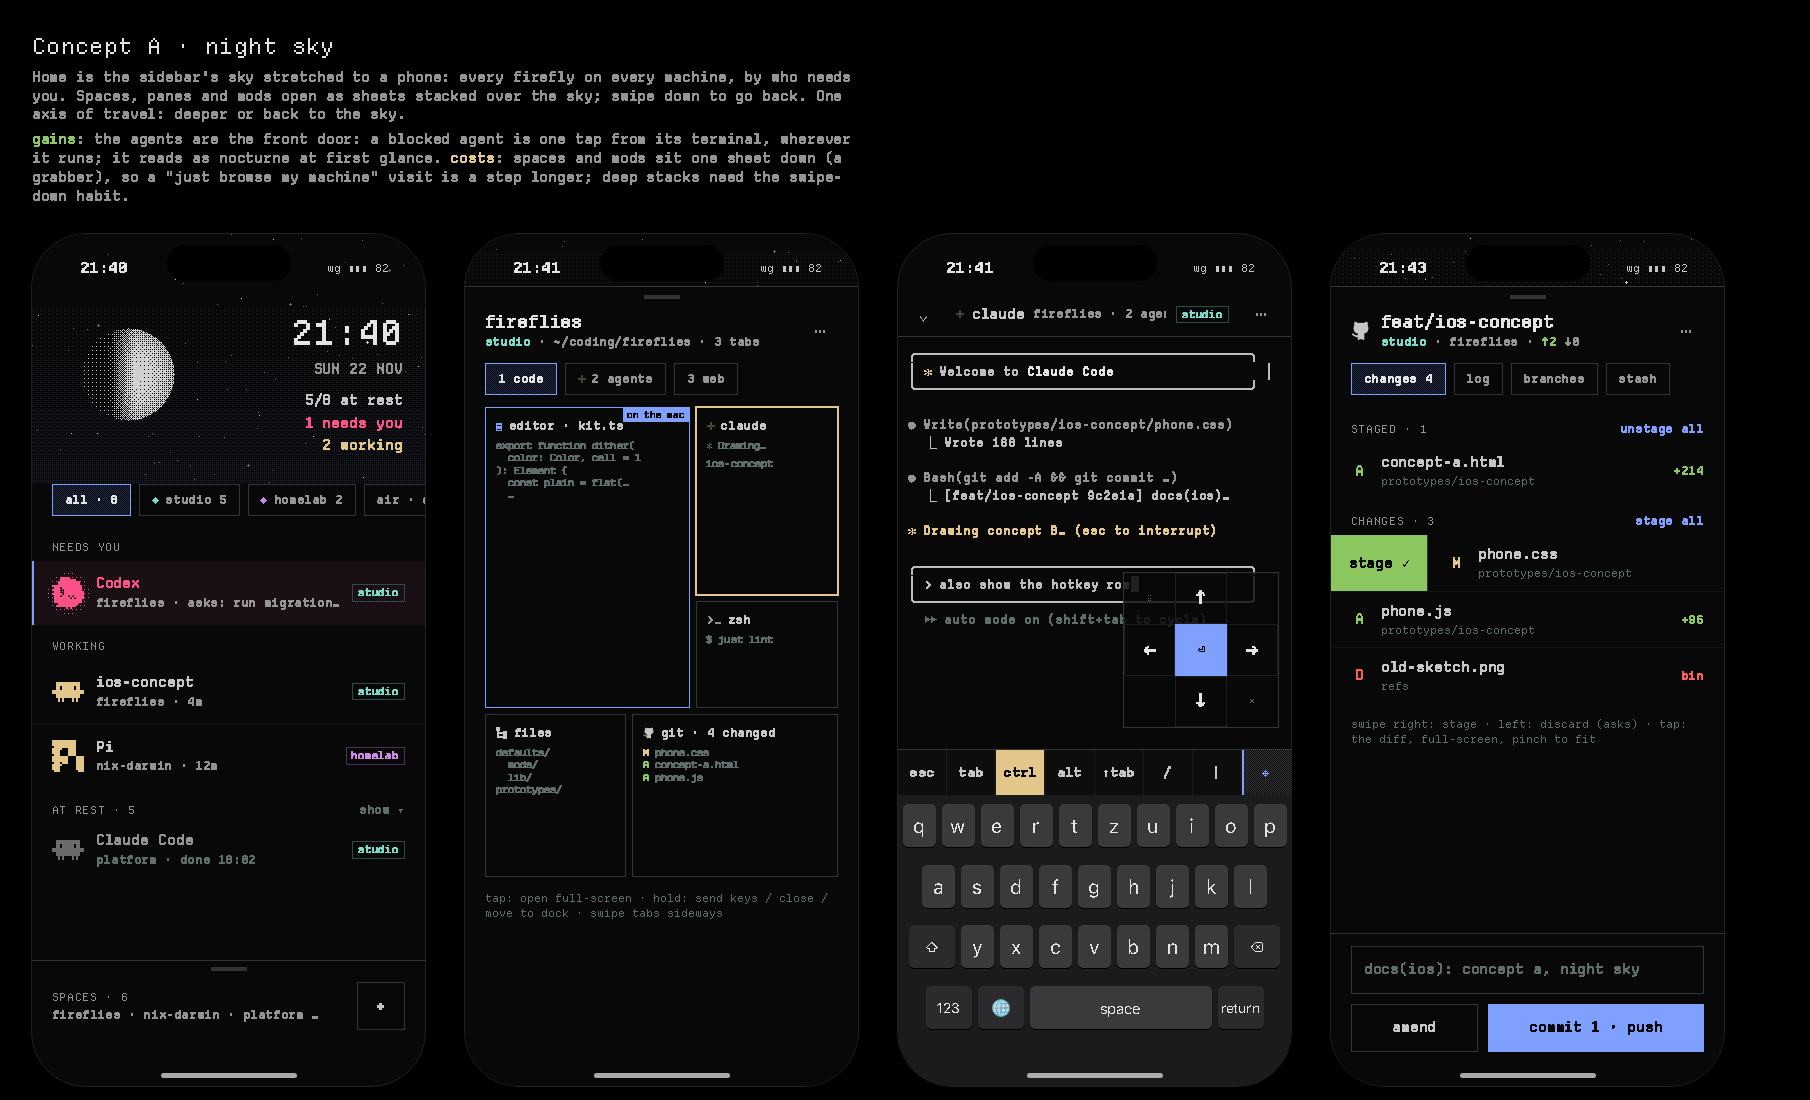
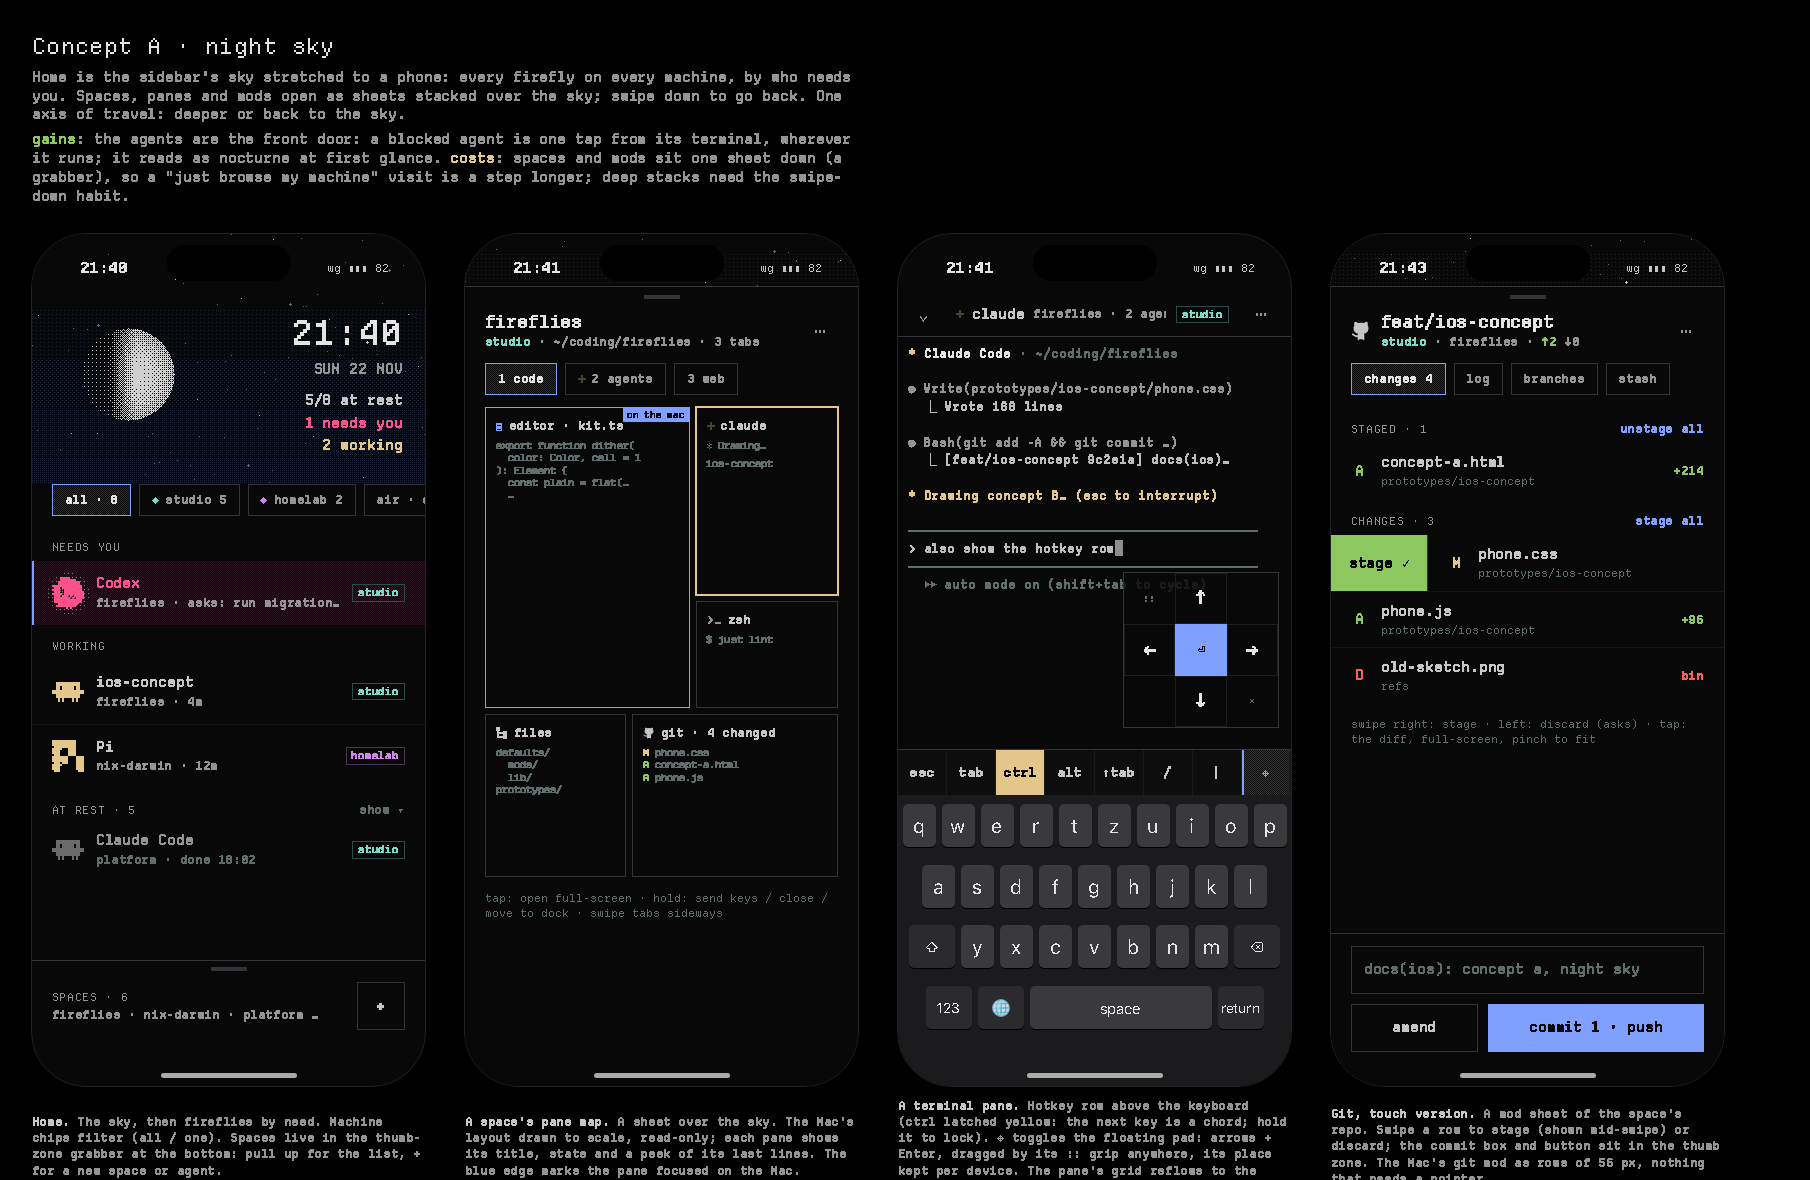
docs(ios): concept b, machine map with a bottom dock, and both concepts' shots

diff --git a/prototypes/ios-concept/concept-b.html b/prototypes/ios-concept/concept-b.html
@@ -1,0 +1,252 @@
+<!doctype html>
+<html lang="en">
+<head>
+<meta charset="utf-8">
+<meta name="viewport" content="width=device-width, initial-scale=1">
+<title>Fireflies iOS: concept B, machine map and dock</title>
+<link rel="stylesheet" href="phone.css">
+<style>
+  .band { position: relative; height: 112px; flex: none; }
+  .band canvas { position: absolute; inset: 0; width: 100%; height: 100%; }
+  .band .t { position: absolute; left: 20px; bottom: 12px; right: 20px; display: flex; justify-content: space-between; align-items: end; }
+  .dock { flex: none; height: 84px; border-top: 1px solid var(--edge); display: grid; grid-template-columns: repeat(5, 1fr); padding-bottom: 26px; background: var(--bg); }
+  .dock span { display: grid; justify-items: center; align-content: center; gap: 4px; font-size: 10px; color: var(--dim); position: relative; }
+  .dock span .art { width: 20px; height: 20px; }
+  .dock span.on { color: var(--bright); }
+  .dock span.on::before { content: ""; position: absolute; top: -1px; left: 22%; right: 22%; height: 2px; background: var(--accent); }
+  .dock .badge { position: absolute; top: 6px; left: 54%; background: var(--blocked); color: var(--bg); font-size: 9px; padding: 0 4px; }
+  .mach { margin: 0 16px 14px; border: 1px solid var(--edge); }
+  .mach .mh { display: flex; align-items: center; gap: 10px; padding: 12px 14px; }
+  .mach .mh .grow { flex: 1; display: grid; gap: 2px; }
+  .mach .sp { display: flex; align-items: center; gap: 10px; min-height: 48px; padding: 0 14px; border-top: 1px solid #161616; }
+  .mach .sp .grow { flex: 1; }
+  .mini { display: grid; gap: 1px; width: 34px; height: 22px; flex: none; }
+  .mini i { background: var(--edge); }
+  .mini i.w { background: var(--working); }
+  .mini i.b { background: var(--blocked); }
+  .mach.off { opacity: 0.55; }
+  .crumb { flex: none; padding: 6px 20px 10px; display: grid; gap: 4px; }
+  .tabs { display: flex; gap: 8px; padding: 0 20px 12px; flex: none; }
+  .map { position: relative; margin: 0 16px; flex: 1; margin-bottom: 12px; }
+  .pn { position: absolute; border: 1px solid var(--edge); padding: 10px; display: flex; flex-direction: column; gap: 6px; overflow: hidden; }
+  .pn .ttl { display: flex; align-items: center; gap: 6px; font-size: 12px; white-space: nowrap; }
+  .pn .peek { font-size: 9.5px; line-height: 1.3; color: var(--dim); white-space: pre; }
+  .pn.mac { border-color: var(--accent); }
+  .pn.press { outline: 2px solid var(--working); outline-offset: -1px; }
+  .termbar { flex: none; height: 44px; display: flex; align-items: center; gap: 8px; padding: 0 8px 0 4px; border-bottom: 1px solid var(--edge); }
+  .termbar .grow { flex: 1; min-width: 0; display: flex; align-items: center; gap: 8px; white-space: nowrap; overflow: hidden; }
+  .x { width: 44px; height: 44px; display: flex; align-items: center; justify-content: center; color: var(--muted); font-size: 16px; }
+  .dots { display: flex; gap: 6px; justify-content: center; padding: 6px 0; flex: none; }
+  .dots i { width: 6px; height: 6px; background: var(--edge); }
+  .dots i.on { background: var(--accent); }
+  .modrail { display: flex; gap: 8px; padding: 0 16px 12px; flex: none; overflow: hidden; }
+  .modrail .chip { height: 40px; }
+  .group { padding: 12px 20px 6px; display: flex; justify-content: space-between; align-items: baseline; }
+  .st { width: 18px; text-align: center; flex: none; }
+  .commit { flex: none; border-top: 1px solid var(--edge); padding: 10px 16px; display: flex; gap: 10px; }
+  .field { flex: 1; min-height: 48px; border: 1px solid var(--edge); padding: 13px 12px; color: var(--dim); white-space: nowrap; overflow: hidden; }
+</style>
+</head>
+<body>
+<header class="page-head">
+  <h1>Concept B · machine map and dock</h1>
+  <p>Home is the machines, each with its spaces drawn as tiny layouts. A five-place dock at the bottom (machines, fireflies, alerts, mods, hosts) is always there except inside a terminal. Travel is machine › space › pane, like a file browser; the dock jumps between kinds of thing.</p>
+  <p><span class="gain">gains</span>: the phone mirrors how the Mac is arranged, so finding "the db pane in platform on homelab" is direct; mods are first-class places, not sheets; easy to learn (a tab bar is what iOS hands expect). <span class="cost">costs</span>: agents needing you sit behind a dock tab and a badge rather than on the first screen; less of the sky, so it reads more like a tool than like nocturne; the dock takes 84 px from every screen.</p>
+</header>
+
+<div class="row">
+
+<!-- 1. home -->
+<figure class="shot">
+<div class="phone">
+  <div class="status"><span>21:40</span><i class="island"></i><span class="sig">local ▮▮▮ 82</span></div>
+  <div class="screen">
+    <div class="band">
+      <canvas class="px sky" data-hills="18" data-from="0.1" data-depth="0.3" data-seed="9"></canvas>
+      <div class="t"><span class="h">Machines</span><span class="sm"><span class="t-block">1 needs you</span> · <span class="t-work">2 working</span></span></div>
+    </div>
+    <div class="scroll" style="padding-top:12px">
+      <div class="mach">
+        <div class="mh">
+          <i class="art pip working" data-art="pip"></i>
+          <div class="grow"><span class="t-bright">studio</span><span class="xs t-muted">local · studio.local · 4 spaces</span></div>
+          <span class="tag m-studio">home wi-fi</span>
+        </div>
+        <div class="sp lit" style="--c:#161a26"><span class="mini" style="grid-template:1fr 1fr / 3fr 2fr"><i style="grid-row:span 2"></i><i class="w"></i><i class="b"></i></span><div class="grow">fireflies</div><i class="art pip blocked" data-art="pip"></i><span class="sm t-muted">6</span></div>
+        <div class="sp"><span class="mini" style="grid-template:1fr / 1fr 1fr"><i></i><i class="w"></i></span><div class="grow">platform</div><span class="sm t-muted">2</span></div>
+        <div class="sp"><span class="mini" style="grid-template:1fr / 1fr"><i></i></span><div class="grow t-muted">scratch</div><span class="sm t-dim">1</span></div>
+      </div>
+      <div class="mach">
+        <div class="mh">
+          <i class="art pip working" data-art="pip"></i>
+          <div class="grow"><span class="t-bright">homelab</span><span class="xs t-muted">vpn · 10.8.0.2 · 2 spaces · k8s</span></div>
+          <span class="tag m-lab">wireguard</span>
+        </div>
+        <div class="sp"><span class="mini" style="grid-template:1fr 1fr / 1fr 1fr"><i class="w"></i><i></i><i></i><i></i></span><div class="grow">nix-darwin</div><span class="sm t-muted">4</span></div>
+      </div>
+      <div class="mach off">
+        <div class="mh">
+          <i class="art pip-hollow" style="width:8px;height:8px;color:var(--dim)" data-art="pip-hollow"></i>
+          <div class="grow"><span>air</span><span class="xs t-dim">asleep · seen 14:02 · wake on lan</span></div>
+        </div>
+      </div>
+    </div>
+    <div class="dock">
+      <span class="on"><i class="art" data-art="tree"></i>machines</span>
+      <span><i class="art" data-art="logo-agent"></i>fireflies</span>
+      <span><i class="art" data-art="bell"></i>alerts<b class="badge">1</b></span>
+      <span><i class="art" data-art="database"></i>mods</span>
+      <span><i class="art" data-art="shield"></i>hosts</span>
+    </div>
+  </div>
+  <i class="home-ind"></i>
+</div>
+<figcaption><b>Home.</b> Machines as panels with their spaces; each space's mini-layout lights the pane that works (yellow) or needs you (pink). The tag says which road the phone takes: home Wi-Fi or WireGuard. An asleep machine offers wake on LAN.</figcaption>
+</figure>
+
+<!-- 2. space map -->
+<figure class="shot">
+<div class="phone">
+  <div class="status"><span>21:41</span><i class="island"></i><span class="sig">local ▮▮▮ 82</span></div>
+  <div class="screen">
+    <div class="safe-top"></div>
+    <div class="crumb">
+      <span class="sm t-muted">‹ <span class="t-cyan">studio</span> / spaces</span>
+      <span class="h">fireflies</span>
+    </div>
+    <div class="tabs">
+      <span class="chip on">1 code</span>
+      <span class="chip"><i class="art pip blocked" data-art="pip"></i>2 agents</span>
+      <span class="chip">3 web</span>
+      <span class="chip t-dim">+</span>
+    </div>
+    <div class="map">
+      <div class="pn mac" style="left:0;top:0;width:58%;height:60%">
+        <div class="ttl"><span class="t-acc">▤</span> editor · kit.ts</div>
+        <div class="peek">export function dither(
+  color: Color, cell = 1
+): Element {
+  …</div>
+      </div>
+      <div class="pn press" style="left:calc(58% + 6px);top:0;right:0;height:38%">
+        <div class="ttl"><i class="art pip working" data-art="pip"></i> claude</div>
+        <div class="peek t-work">* Drawing…</div>
+      </div>
+      <div class="pn" style="left:calc(58% + 6px);top:calc(38% + 6px);right:0;height:calc(22% - 6px)">
+        <div class="ttl"><span class="t-muted">&gt;_</span> zsh</div>
+      </div>
+      <div class="pn" style="left:0;top:calc(60% + 6px);width:40%;bottom:0">
+        <div class="ttl"><i class="art" style="width:12px;height:12px" data-art="tree"></i> files</div>
+        <div class="peek">defaults/
+prototypes/</div>
+      </div>
+      <div class="pn" style="left:calc(40% + 6px);top:calc(60% + 6px);right:0;bottom:0">
+        <div class="ttl"><i class="art" style="width:12px;height:12px" data-art="github"></i> git · 4</div>
+      </div>
+    </div>
+    <div class="dock">
+      <span class="on"><i class="art" data-art="tree"></i>machines</span>
+      <span><i class="art" data-art="logo-agent"></i>fireflies</span>
+      <span><i class="art" data-art="bell"></i>alerts<b class="badge">1</b></span>
+      <span><i class="art" data-art="database"></i>mods</span>
+      <span><i class="art" data-art="shield"></i>hosts</span>
+    </div>
+  </div>
+  <i class="home-ind"></i>
+</div>
+<figcaption><b>A space's pane map.</b> Pushed inside the machines tab (back with the edge swipe). Tabs are chips, the layout fills what the dock leaves; tap a pane to open it, hold for send keys / close / move.</figcaption>
+</figure>
+
+<!-- 3. terminal -->
+<figure class="shot">
+<div class="phone">
+  <div class="status"><span>21:41</span><i class="island"></i><span class="sig">local ▮▮▮ 82</span></div>
+  <div class="screen">
+    <div class="safe-top"></div>
+    <div class="termbar">
+      <span class="x">‹</span>
+      <div class="grow"><i class="art pip working" data-art="pip"></i><span>claude</span><span class="sm t-muted">fireflies › code</span></div>
+      <span class="x" style="font-size:12px">2/5</span>
+      <span class="x">⋯</span>
+    </div>
+    <div class="term" style="flex:1"><span class="t-work">*</span> <span class="t-bright">Claude Code</span> <span class="t-dim">· ~/coding/fireflies</span>
+
+<span class="t-muted">● Write(prototypes/ios-concept/phone.css)</span>
+  ⎿ Wrote 168 lines
+
+<span class="t-muted">● Bash(git add -A &amp;&amp; git commit …)</span>
+  ⎿ [feat/ios-concept bbce2cc] docs(ios)…
+
+<span class="t-work">* Drawing concept B… (esc to interrupt)</span>
+
+<span class="t-dim">────────────────────────────────────────────</span>
+&gt; also show the hotkey row<span class="cur"> </span>
+<span class="t-dim">────────────────────────────────────────────</span></div>
+    <div class="dots"><i></i><i class="on"></i><i></i><i></i><i></i></div>
+    <div class="pad" style="left:14px;bottom:360px">
+      <span class="grip">::</span><span class="arrow">↑</span><span class="grip"></span>
+      <span class="arrow">←</span><span class="enter">⏎</span><span class="arrow">→</span>
+      <span class="grip"></span><span class="arrow">↓</span><span class="grip">x</span>
+    </div>
+    <div class="keyrow">
+      <span class="k">esc</span><span class="k">tab</span><span class="k">ctrl</span><span class="k">alt</span><span class="k">^C</span><span class="k">^R</span><span class="k">|</span><span class="k lit">✥</span>
+    </div>
+    <div class="kbd">
+      <div class="r"><span>q</span><span>w</span><span>e</span><span>r</span><span>t</span><span>z</span><span>u</span><span>i</span><span>o</span><span>p</span></div>
+      <div class="r"><span>a</span><span>s</span><span>d</span><span>f</span><span>g</span><span>h</span><span>j</span><span>k</span><span>l</span></div>
+      <div class="r"><span class="w">⇧</span><span>y</span><span>x</span><span>c</span><span>v</span><span>b</span><span>n</span><span>m</span><span class="w">⌫</span></div>
+      <div class="r"><span class="w">123</span><span class="w">🌐</span><span class="sp">space</span><span class="w">return</span></div>
+    </div>
+  </div>
+  <i class="home-ind"></i>
+</div>
+<figcaption><b>A terminal pane.</b> The dock steps aside for the keyboard. Swipe sideways on the bar to the tab's next pane (dots: 2 of 5). The hotkey row carries chords as keys (^C, ^R: editable); ✥ shows the pad, here dragged to the left for a left thumb.</figcaption>
+</figure>
+
+<!-- 4. git -->
+<figure class="shot">
+<div class="phone">
+  <div class="status"><span>21:43</span><i class="island"></i><span class="sig">local ▮▮▮ 82</span></div>
+  <div class="screen">
+    <div class="safe-top"></div>
+    <div class="crumb"><span class="sm t-muted">mods</span><span class="h">git</span></div>
+    <div class="modrail">
+      <span class="chip on"><i class="art" style="width:14px;height:14px" data-art="github"></i>git</span>
+      <span class="chip">github</span><span class="chip">databases</span><span class="chip">k8s</span><span class="chip">files</span>
+    </div>
+    <div style="display:flex;gap:8px;padding:0 16px 8px;flex:none"><span class="chip"><span class="t-cyan">studio</span> › fireflies ▾</span><span class="chip">feat/ios-concept <span class="t-done">↑2</span></span></div>
+    <div class="scroll">
+      <div class="group"><span class="eyebrow">Staged · 1</span><span class="sm t-acc">unstage all</span></div>
+      <div class="list">
+        <div class="item"><span class="st t-done">A</span><div class="grow"><span>concept-a.html</span><span class="xs t-dim">prototypes/ios-concept</span></div><span class="sm t-done">+214</span></div>
+      </div>
+      <div class="group"><span class="eyebrow">Changes · 3</span><span class="sm t-acc">stage all</span></div>
+      <div class="list">
+        <div class="item lit" style="--c:#161a26"><span class="st t-work">M</span><div class="grow"><span>phone.css</span><span class="xs t-dim">prototypes/ios-concept</span></div><span class="sm"><span class="t-done">+9</span> <span class="t-red">−2</span></span></div>
+        <div class="term" style="font-size:11px;padding:4px 20px 8px 50px;background:#0c0c0c"><span class="t-dim">@@ 41,6 @@ .pad</span>
+<span class="t-red">-  .pad span { font-size: 16px; }</span>
+<span class="t-done">+  .pad span { font-size: 18px; }</span>
+<span class="t-done">+  .pad .grip { color: var(--dim); }</span></div>
+        <div class="item"><span class="st t-done">A</span><div class="grow"><span>phone.js</span><span class="xs t-dim">prototypes/ios-concept</span></div><span class="sm t-done">+96</span></div>
+        <div class="item"><span class="st t-red">D</span><div class="grow"><span>old-sketch.png</span><span class="xs t-dim">refs</span></div><span class="sm t-red">bin</span></div>
+      </div>
+    </div>
+    <div class="commit"><div class="field">docs(ios): concept b</div><span class="btn solid">commit</span></div>
+    <div class="dock">
+      <span><i class="art" data-art="tree"></i>machines</span>
+      <span><i class="art" data-art="logo-agent"></i>fireflies</span>
+      <span><i class="art" data-art="bell"></i>alerts<b class="badge">1</b></span>
+      <span class="on"><i class="art" data-art="database"></i>mods</span>
+      <span><i class="art" data-art="shield"></i>hosts</span>
+    </div>
+  </div>
+  <i class="home-ind"></i>
+</div>
+<figcaption><b>Git in the mods tab.</b> A rail of mods on top, the repo picked by machine › space (remembers the last). Tap a row to unfold its diff in place; stage with the row's swipe as in A. Commit bar sits right above the dock.</figcaption>
+</figure>
+
+</div>
+<script src="assets.js"></script>
+<script src="phone.js"></script>
+</body>
+</html>
